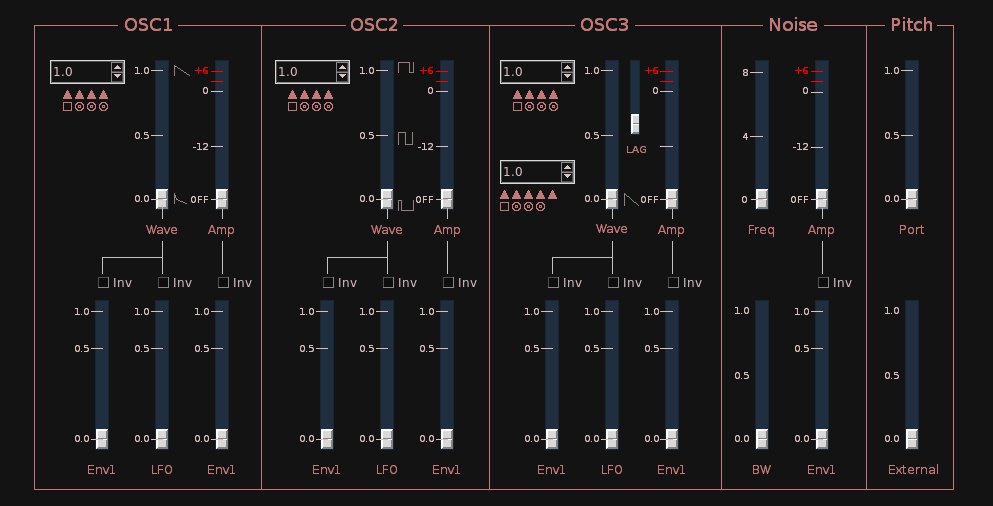
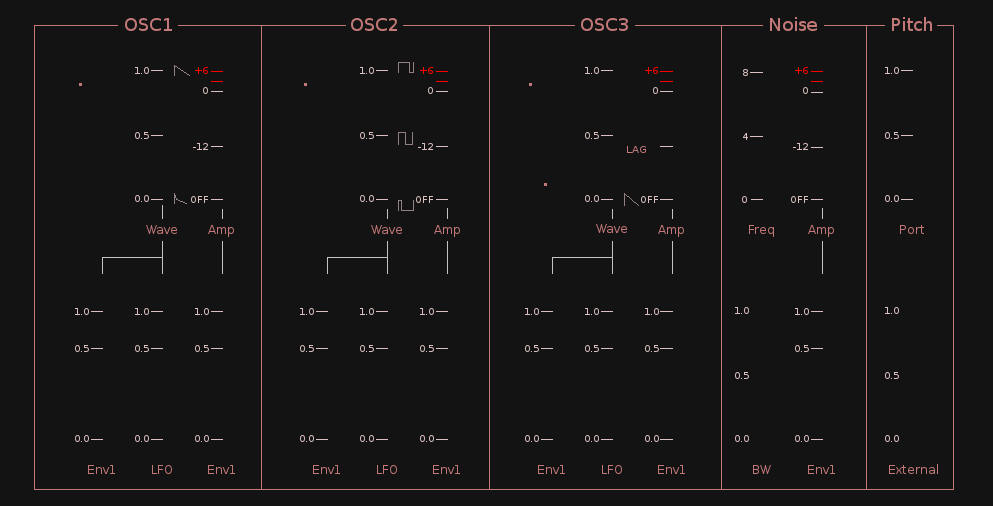
Updated Saw3 editor to use Tumbler widget

diff --git a/llia/synths/saw3/tk/editor.py b/llia/synths/saw3/tk/editor.py
@@ -7,7 +7,7 @@ from llia.gui.tk.tk_subeditor import TkSubEditor
 import llia.gui.tk.tk_factory as factory
 import llia.gui.tk.control_factory as cf
 from llia.gui.tk.expslider import ExpSlider
-from llia.gui.tk.freq_spinner import FrequencySpinnerControl
+from llia.gui.tk.tumbler import Tumbler
 from llia.synths.saw3.tk.s3filter import TkSaw3FilterPanel
 
 def create_editor(parent):
@@ -41,23 +41,18 @@ class TkSaw3Panel1(TkSubEditor):
         x_env1_amp_offset = x_amp_offset
         for i, osc in enumerate(("osc1", "osc2", "osc3")):
             x = x0 + (i * xosc_offset)
-            spinner = self.spinner(osc+"Freq", x, y0+yfreq_offset)
-            spinner.create_nudgetools(canvas,
-                                      (x+13,y0+yfreq_offset+30),
-                                      fill = '#131313',
-                                      outline='#c37978')
+            tumbler = Tumbler(canvas,osc+"Freq",editor,digits=5, scale=0.001)
+            self.add_control(osc+"Freq", tumbler)
+            tumbler.layout((x, y0+yfreq_offset))
             self.norm_slider(osc+"Wave", x+x_wave_offset, y0)
             self.volume_slider(osc+"Amp", x+x_amp_offset, y0)
             self.exp_slider(osc+"Wave_env1", x+x_env1_wave_offset, y1)
             self.exp_slider(osc+"Wave_lfo", x+x_lfo_wave_offset, y1)
             self.exp_slider(osc+"Amp_env1", x+x_env1_amp_offset, y1)
             xosc3 = x
-        spin_bias = self.spinner("osc3Bias", xosc3, y0+ybias_offset, (0,9999))
-        spin_bias.create_nudgetools(canvas,(xosc3+9,y0+ybias_offset+30),
-                                   deltas =(100,10,1,0.1,0.01),
-                                   constant = 0,
-                                   fill='#131313',
-                                   outline='#c37978')
+        tumbler = Tumbler(canvas,"osc3Bias",editor,digits=5,scale=0.01)
+        self.add_control("osc3Bias", tumbler)
+        tumbler.layout((xosc3,y0+ybias_offset))
         self.norm_slider("osc3WaveLag", xosc3+x_wave_offset+25, y0, width=10, height=75)
         xnoise = xosc3 + xosc_offset + 30
         self.linear_slider("noiseFreq", xnoise, y0)
@@ -68,13 +63,6 @@ class TkSaw3Panel1(TkSubEditor):
         self.linear_slider("port", xpitch, y0, range_=(0,2))
         self.norm_slider("xToPitch", xpitch, y1)
 
-    def spinner(self, param, x, y, range_=(0,32)):
-        s = FrequencySpinnerControl(self.canvas, param, self.editor,
-                                    range_[0], range_[1])
-        self.add_control(param, s)
-        s.layout(offset=(x,y))
-        return s
-        
     def volume_slider(self, param, x, y, width=14, height=150):
         s = cf.volume_slider(self.canvas, param, self.editor)
         self.add_control(param, s)
